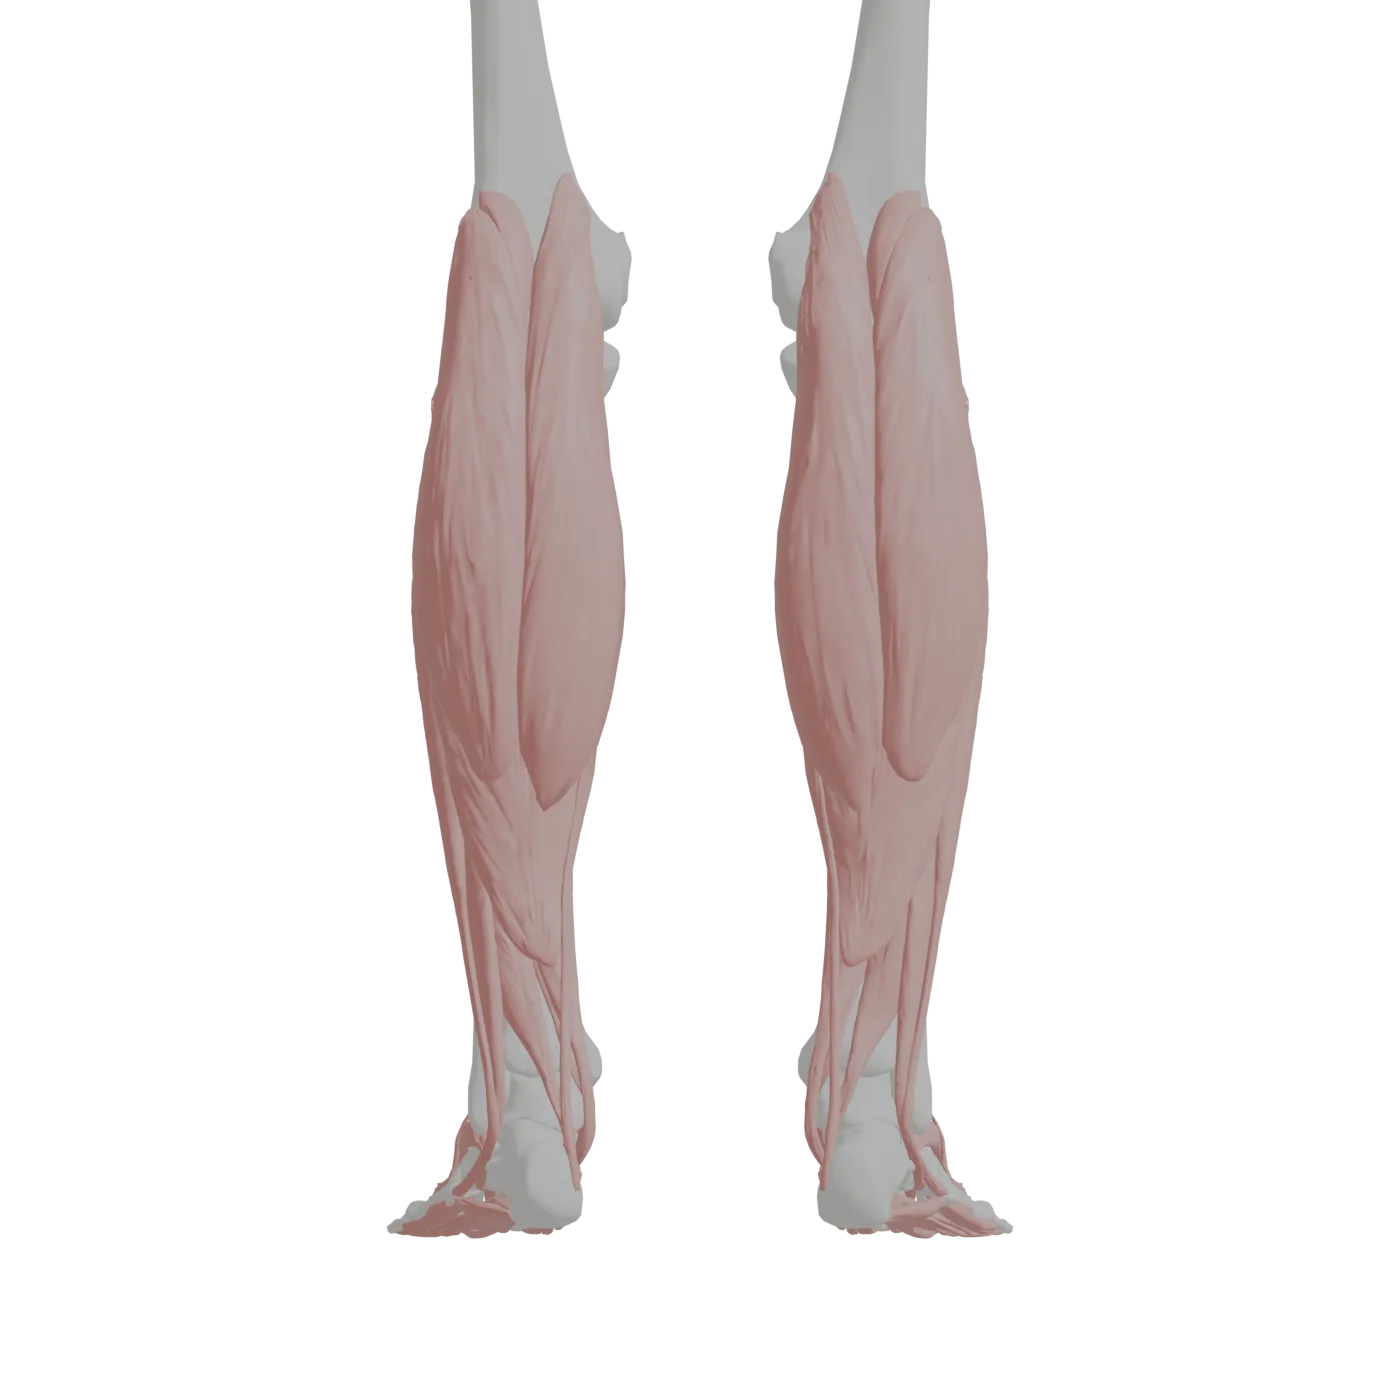
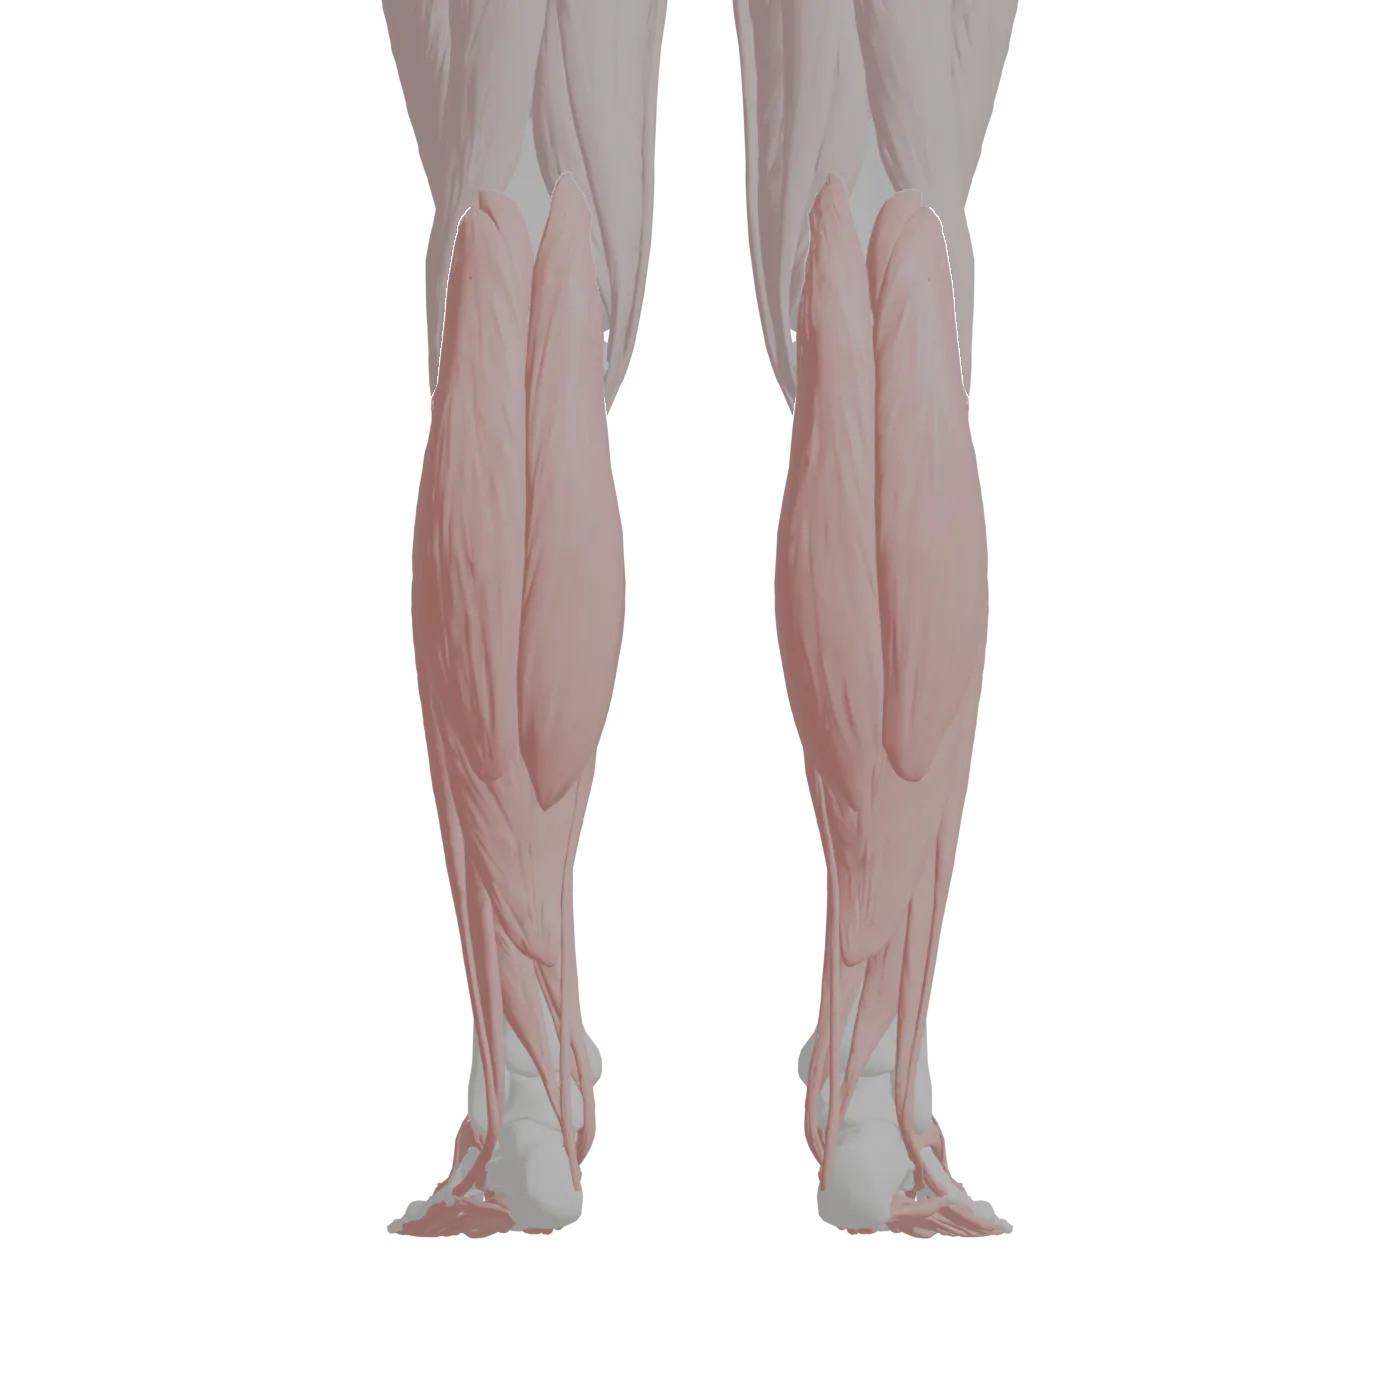
Give the skeleton no nose, and set the region muscles in a whole body
Two fixes to the regional plates.

The skull had a nose and ears. Z-Anatomy files nasal, ear and laryngeal
cartilage under "1: Skeletal system", so rendering that collection wholesale
produced a skeleton that could not exist. Those 34 objects are now excluded.
Costal cartilage stays: it joins the ribs to the sternum and is drawn in every
skeletal atlas.

The renders also showed only their own region's muscles, which left the figure
looking amputated and removed the surrounding landmarks you navigate by.
Drawing all 122 instead is not a straight win, though -- it buries the deep
regions completely. In back-core's lateral view the erector spinae,
intercostals and obliques disappear behind latissimus dorsi and trapezius, and
a muscle you cannot see cannot carry a locate question.

So each view now renders twice: a SUBJECT plate of bones plus the region's
muscles, and a CONTEXT plate of bones plus every muscle in the body, drawn in a
muted flesh tone. compositeRegionPlates.ts combines them, taking subject pixels
wherever a region muscle is actually visible and context pixels everywhere
else. The paste mask is the union of that view's per-muscle masks -- the same
files masksToHotspots.ts traces -- so the picture and the hotspots cannot
drift: every pixel that reads as a region muscle is a pixel some hotspot
claims. A 1px dilation stops antialiased subject edges leaving an outline.

Masks are untouched, so hotspots.regions.generated.ts is byte-identical.
[…]

Changed region(s): [[0.5221, 0.0, 0.7371, 0.3071], [0.3686, 0.0, 0.4914, 0.3071], [0.2764, 0.0, 0.3379, 0.2764]]

diff --git a/src/scripts/compositeRegionPlates.ts b/src/scripts/compositeRegionPlates.ts
@@ -1,0 +1,143 @@
+/**
+ * Composites the regional subject plate over the whole-body context plate.
+ *
+ * Rendering every muscle into one image gives a realistic figure with usable
+ * landmarks, but buries the deep regions: back-core's erector spinae and
+ * intercostals vanish behind latissimus dorsi and trapezius, and a muscle you
+ * cannot see cannot carry a locate question. Rendering only the region's own
+ * muscles keeps them visible but leaves the figure looking amputated.
+ *
+ * So both are rendered and combined here. The context plate provides the
+ * surrounding body; wherever a region muscle is actually visible, the subject
+ * plate is pasted on top instead.
+ *
+ * The paste mask is the union of that view's per-muscle masks — the exact same
+ * files masksToHotspots.ts traces. That is what keeps the picture and the
+ * hotspots in agreement: every pixel a student can see as a region muscle is a
+ * pixel some hotspot claims, and vice versa. Deriving the mask any other way
+ * (say, from the subject plate's alpha, which also contains bone) would let the
+ * two drift apart.
+ *
+ * Usage:
+ *   npx tsx src/scripts/compositeRegionPlates.ts --renders renders/regions-bones
+ *     [--views anterior=0,lateral=6,posterior=12] [--out DIR] [--dilate 1]
+ */
+import { readdirSync, existsSync, mkdirSync, writeFileSync } from 'node:fs';
+import { join } from 'node:path';
+import { decodePng } from './lib/png';
+import { encodePng } from './lib/pngEncode';
+
+function parseArgs(argv: string[]): Record<string, string> {
+  const out: Record<string, string> = {};
+  for (let i = 0; i < argv.length; i++) {
+    if (argv[i].startsWith('--') && argv[i + 1] && !argv[i + 1].startsWith('--')) {
+      out[argv[i].slice(2)] = argv[i + 1];
+    }
+  }
+  return out;
+}
+
+/**
+ * Grows the mask by `n` pixels. The masks are traced from the same renders, but
+ * antialiased subject edges sit a fraction of a pixel outside the binary mask;
+ * without a small dilation those edge pixels come from the context plate and
+ * leave a faint outline around every muscle.
+ */
+function dilate(mask: Uint8Array, width: number, height: number, n: number): Uint8Array {
+  let current = mask;
+  for (let pass = 0; pass < n; pass++) {
+    const next = new Uint8Array(current.length);
+    for (let y = 0; y < height; y++) {
+      for (let x = 0; x < width; x++) {
+        const i = y * width + x;
+        if (current[i]) { next[i] = 1; continue; }
+        for (let dy = -1; dy <= 1 && !next[i]; dy++) {
+          for (let dx = -1; dx <= 1; dx++) {
+            const nx = x + dx;
+            const ny = y + dy;
+            if (nx < 0 || ny < 0 || nx >= width || ny >= height) continue;
+            if (current[ny * width + nx]) { next[i] = 1; break; }
+          }
+        }
+      }
+    }
+    current = next;
+  }
+  return current;
+}
+
+function main(): void {
+  const args = parseArgs(process.argv.slice(2));
+  const root = args.renders ?? 'renders/regions-bones';
+  const outDir = args.out ?? root;
+  const dilatePasses = Number(args.dilate ?? '1');
+
+  const views: [string, number][] = (args.views ?? 'anterior=0,lateral=6,posterior=12')
+    .split(',')
+    .map((pair) => {
+      const [name, frame] = pair.split('=');
+      return [name, Number(frame)];
+    });
+
+  let written = 0;
+  for (const region of readdirSync(root)) {
+    const regionDir = join(root, region);
+    const maskRoot = join(regionDir, 'masks');
+    if (!existsSync(maskRoot)) continue;
+
+    for (const [, frame] of views) {
+      const tag = String(frame).padStart(2, '0');
+      const subjectPath = join(regionDir, `frame-${tag}.png`);
+      const contextPath = join(regionDir, `context-${tag}.png`);
+      if (!existsSync(subjectPath) || !existsSync(contextPath)) {
+        console.error(`${region} frame-${tag}: missing subject or context plate`);
+        continue;
+      }
+
+      const subject = decodePng(subjectPath);
+      const context = decodePng(contextPath);
+      if (subject.width !== context.width || subject.height !== context.height) {
+        console.error(`${region} frame-${tag}: plate sizes differ`);
+        continue;
+      }
+
+      const n = subject.width * subject.height;
+      const union = new Uint8Array(n);
+      let masks = 0;
+      for (const muscle of readdirSync(maskRoot)) {
+        const p = join(maskRoot, muscle, `frame-${tag}.png`);
+        if (!existsSync(p)) continue;
+        const m = decodePng(p);
+        if (m.width !== subject.width || m.height !== subject.height) continue;
+        for (let i = 0; i < n; i++) if (m.data[i * 4 + 3] > 128) union[i] = 1;
+        masks++;
+      }
+
+      const paste = dilatePasses > 0 ? dilate(union, subject.width, subject.height, dilatePasses) : union;
+
+      const out = new Uint8Array(n * 4);
+      let pasted = 0;
+      for (let i = 0; i < n; i++) {
+        const src = paste[i] ? subject.data : context.data;
+        if (paste[i]) pasted++;
+        out[i * 4] = src[i * 4];
+        out[i * 4 + 1] = src[i * 4 + 1];
+        out[i * 4 + 2] = src[i * 4 + 2];
+        out[i * 4 + 3] = src[i * 4 + 3];
+      }
+
+      mkdirSync(join(outDir, region), { recursive: true });
+      const path = join(outDir, region, `composited-${tag}.png`);
+      writeFileSync(path, encodePng(out, subject.width, subject.height));
+      console.log(
+        `${region.padEnd(16)} frame-${tag}  ${String(masks).padStart(2)} masks  ` +
+          `${((100 * pasted) / n).toFixed(1)}% subject`,
+      );
+      written++;
+    }
+  }
+
+  console.log(`\n${written} composited plate(s) -> ${outDir}`);
+}
+
+main();

diff --git a/src/scripts/blender/renderRegionsWithBones.py b/src/scripts/blender/renderRegionsWithBones.py
@@ -123,6 +123,11 @@ mask_mat = flat_white()
 # pink barely distinguishable from bone.
 plate_mat = principled("isolated_flesh", (0.76, 0.27, 0.25, 1.0))
 bone_mat = principled("bone", (0.90, 0.88, 0.83, 1.0), roughness=0.6)
+# Muscles outside the region are drawn muted, so the composited plate reads as
+# "this region, in a body" rather than one undifferentiated slab of muscle. At
+# the same saturation as the subject the two layers are indistinguishable and
+# the composite looks like a rendering error.
+context_mat = principled("context_flesh", (0.78, 0.47, 0.45, 1.0), roughness=0.65)
 
 
 def bake_world_mesh(object_names, mesh_name):
@@ -195,14 +200,53 @@ def link(mesh, name, material, holdout=False):
     return ob
 
 
+# Z-Anatomy files nasal, ear and laryngeal cartilage under the skeletal system.
+# Rendered, they give the skull a nose and ears — a skeleton that could not
+# exist, and the first thing anyone notices. Costal cartilage stays: it joins
+# the ribs to the sternum and is drawn in every skeletal atlas.
+SOFT_CARTILAGE = (
+    "nasal septal cartilage",
+    "nasal cartilages",
+    "major alar cartilage",
+    "cartilages of ear",
+    "thyroid cartilage",
+    "cricoid cartilage",
+    "arytenoid cartilage",
+    "corniculate cartilage",
+    "laryngeal cartilages",
+)
+
+
+def is_soft_cartilage(name):
+    lowered = name.lower()
+    return any(k in lowered for k in SOFT_CARTILAGE)
+
+
 skel = bpy.data.collections.get("1: Skeletal system")
 if skel is None:
     print("[fatal] collection '1: Skeletal system' not found")
     sys.exit(1)
-bone_names = [o.name for o in skel.all_objects if o.type == "MESH"]
-print(f"[bones] baking {len(bone_names)} skeletal meshes...", flush=True)
+all_skel = [o.name for o in skel.all_objects if o.type == "MESH"]
+bone_names = [n for n in all_skel if not is_soft_cartilage(n)]
+print(f"[bones] baking {len(bone_names)} skeletal meshes "
+      f"({len(all_skel) - len(bone_names)} soft cartilage excluded)...", flush=True)
 bone_mesh = bake_world_mesh(bone_names, "baked_bones")
 print(f"[bones] {len(bone_mesh.vertices)} verts", flush=True)
+
+# Every muscle in the body, for the plate. The regional renders previously drew
+# only their own region's muscles, which left the figure looking amputated and
+# removed the surrounding landmarks that help you orient. Baked once and reused
+# across regions.
+all_muscle_entries = [m for m in mapping if m.get("blenderObjects")]
+print(f"[muscles] baking all {len(all_muscle_entries)} muscles for the plate...", flush=True)
+all_muscle_meshes = {}
+for e in all_muscle_entries:
+    mesh = bake_world_mesh(e["blenderObjects"], f"all_{e['id']}")
+    if len(mesh.vertices) == 0:
+        bpy.data.meshes.remove(mesh)
+        continue
+    all_muscle_meshes[e["id"]] = mesh
+print(f"[muscles] {len(all_muscle_meshes)} baked", flush=True)
 
 total_renders = 0
 t_start = time.time()
@@ -244,13 +288,30 @@ for region in regions:
               f"ortho={cam_data.ortho_scale:.4f}", flush=True)
 
         if not a.skip_plate:
+            # Two plates per view, composited later by compositeRegionPlates.ts.
+            #
+            # SUBJECT: bones + this region's muscles. Matches the masks exactly,
+            # so it is the layer the hotspots describe.
             clear_render_objects()
             link(bone_mesh, "plate_bones", bone_mat)
             for mid, mesh in baked.items():
                 link(mesh, f"plate_{mid}", plate_mat)
             dt = render_to(os.path.join(a.out, region, f"frame-{frame:02d}.png"))
             total_renders += 1
-            print(f"[plate] {region} frame-{frame:02d} {dt:.1f}s", flush=True)
+
+            # CONTEXT: bones + every muscle in the body, for the surrounding
+            # figure. Drawn on its own because compositing the subject back over
+            # it is what keeps the region's muscles visible: rendering all the
+            # muscles together instead would bury the deep regions entirely —
+            # back-core's erector spinae and intercostals disappear behind
+            # latissimus dorsi and trapezius, taking their hotspots with them.
+            clear_render_objects()
+            link(bone_mesh, "context_bones", bone_mat)
+            for mid, mesh in all_muscle_meshes.items():
+                link(mesh, f"context_{mid}", context_mat)
+            dtc = render_to(os.path.join(a.out, region, f"context-{frame:02d}.png"))
+            total_renders += 1
+            print(f"[plate] {region} frame-{frame:02d} subject {dt:.1f}s context {dtc:.1f}s", flush=True)
 
         if a.plates_only:
             continue

diff --git a/src/scripts/blender/platesToWebp.py b/src/scripts/blender/platesToWebp.py
@@ -17,6 +17,9 @@ ap.add_argument("--plates", required=True)
 ap.add_argument("--out", required=True)
 ap.add_argument("--views", default="anterior=0,lateral=6,posterior=12")
 ap.add_argument("--quality", type=int, default=82)
+ap.add_argument("--prefix", default="composited",
+                help="'composited' for the subject-over-context plates the app ships, "
+                     "'frame' for the raw region-only subject plate")
 a = ap.parse_args(argv)
 
 views = {}
@@ -37,7 +40,7 @@ for region_dir in sorted(glob.glob(os.path.join(a.plates, "*"))):
         continue
     region = os.path.basename(region_dir)
     for view, frame in views.items():
-        src = os.path.join(region_dir, f"frame-{frame:02d}.png")
+        src = os.path.join(region_dir, f"{a.prefix}-{frame:02d}.png")
         if not os.path.exists(src):
             print(f"[warn] missing {src}")
             continue
